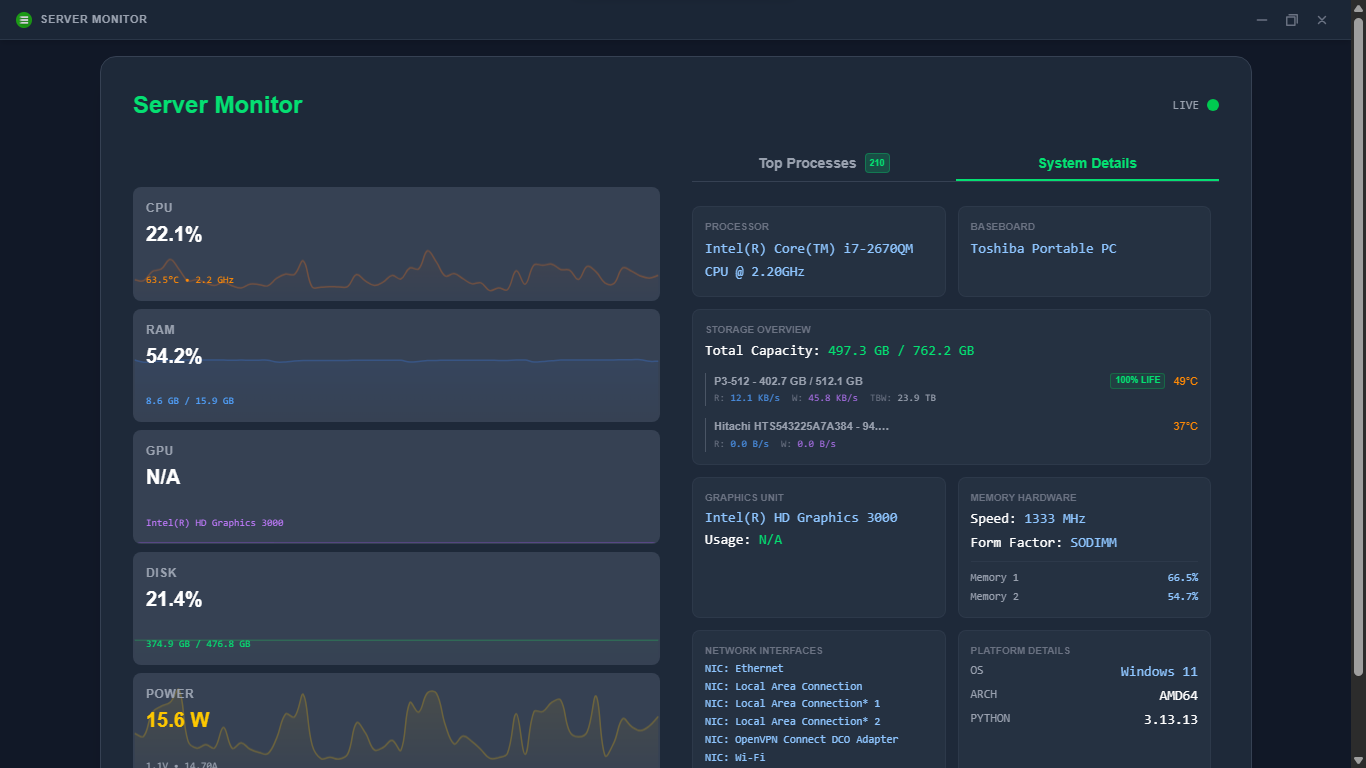
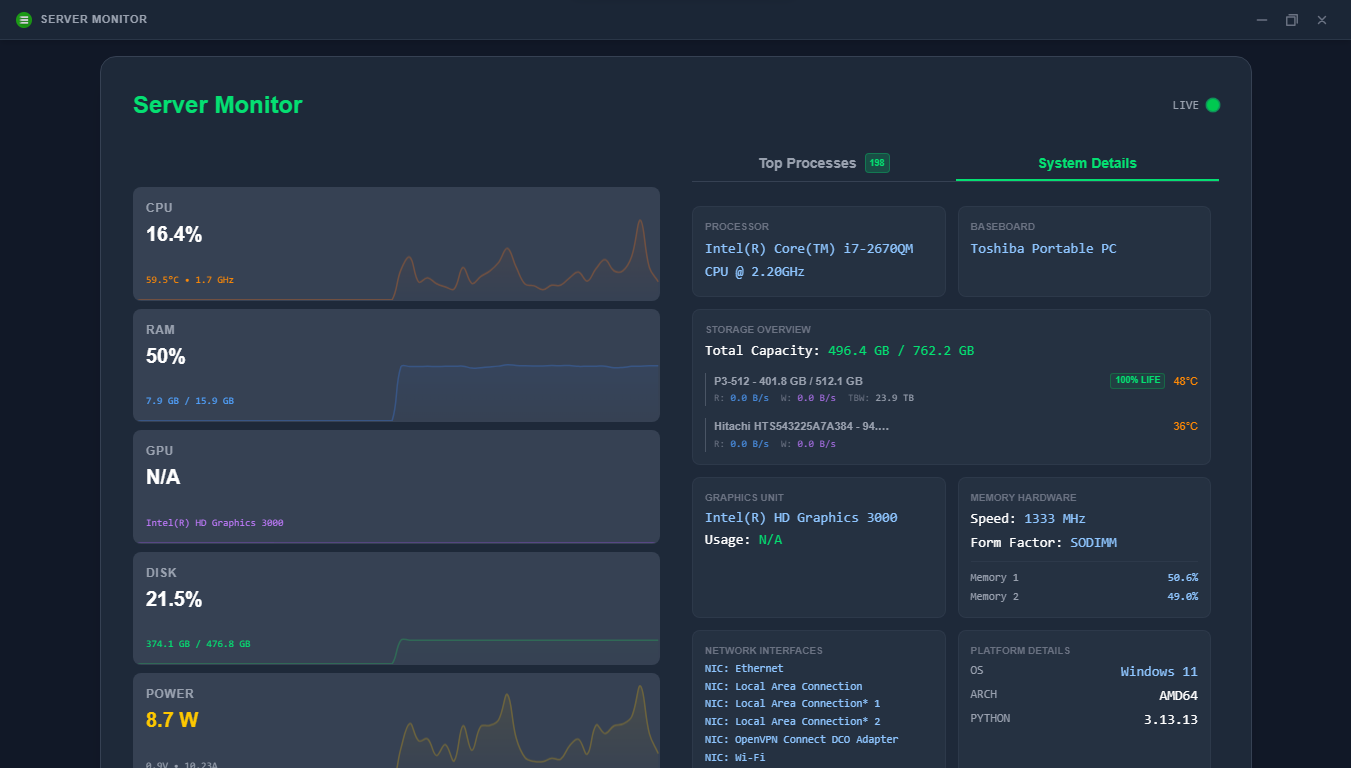
Remove network column from process table and enable external access
Changes to be committed:
	modified:   config.json
	modified:   monitor_core/stats.py
	modified:   screenshots/dashboard.png
	modified:   screenshots/system_details.png
	modified:   static/dashboard.js
	modified:   templates/dashboard.html

diff --git a/static/dashboard.js b/static/dashboard.js
@@ -389,7 +389,6 @@ socket.on('stats_response', (data) => {
             <td class="px-4 py-1 text-right text-orange-400 font-mono">${p.cpu.toFixed(1)}%</td>
             <td class="px-4 py-1 text-right text-blue-400 font-mono">${p.memory_str}</td>
             <td class="px-4 py-1 text-right text-green-400 font-mono">${p.disk_str}</td>
-            <td class="px-4 py-1 text-right text-purple-400 font-mono">${p.net_str}</td>
         </tr>
     `).join('');
 

diff --git a/templates/dashboard.html b/templates/dashboard.html
@@ -154,7 +154,6 @@
                                             <th class="px-4 py-1 text-right font-semibold">CPU</th>
                                             <th class="px-4 py-1 text-right font-semibold">Memory</th>
                                             <th class="px-4 py-1 text-right font-semibold">Disk</th>
-                                            <th class="px-4 py-1 text-right font-semibold">Network</th>
                                         </tr>
                                     </thead>
                                     <tbody id="process-table" class="font-mono"></tbody>

diff --git a/monitor_core/stats.py b/monitor_core/stats.py
@@ -522,8 +522,7 @@ def get_top_processes():
                     'count': 1,
                     'memory': mem,
                     'cpu': cpu,
-                    'disk': disk_speed,
-                    'network': 0
+                    'disk': disk_speed
                 }
             else:
                 groups[group_key]['count'] += 1
@@ -545,8 +544,7 @@ def get_top_processes():
             "count": g['count'],
             "cpu": round(min(g['cpu'], 100.0), 1),
             "memory_str": format_bytes(g['memory']),
-            "disk_str": f"{format_bytes(g['disk'])}/s",
-            "net_str": "0.0 B/s" # Placeholder as per psutil limitations
+            "disk_str": f"{format_bytes(g['disk'])}/s"
         })
 
     return {